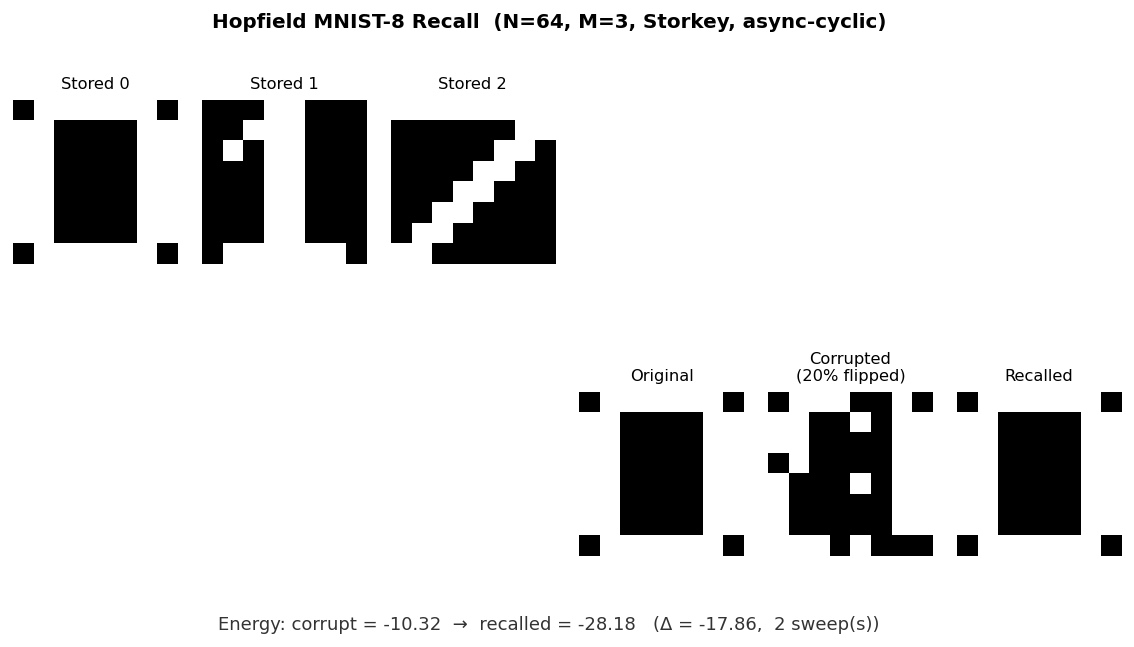
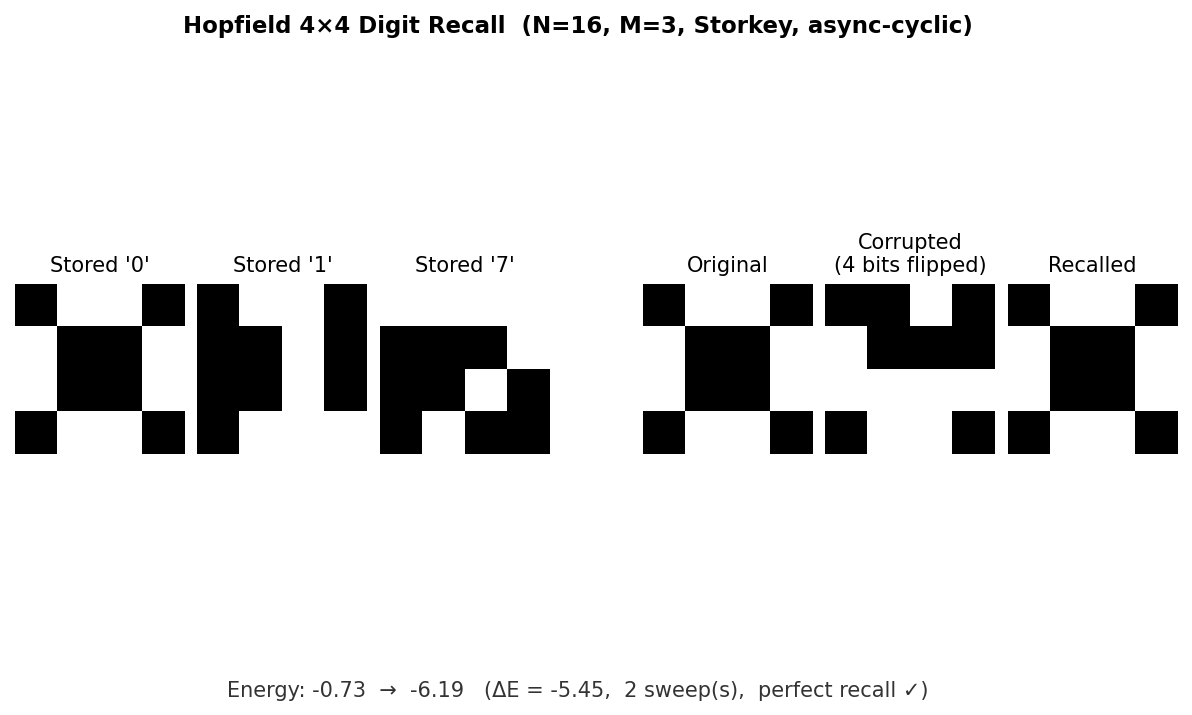
Switch demo to 4×4 digits (N=16, hardware-realistic)
demo_mnist.py: replaced 8×8 patterns with 4×4 hand-crafted digits (0, 1, 7),
  N=16 — matches the borderline feasible truth table size (2^16 rows).
  Updated plot layout, titles, and energy annotation accordingly.

https://claude.ai/code/session_01QZFvVfVcLBRkZ4WmhL34SA

diff --git a/meetings/2026-05-11/demo/demo_mnist.py b/meetings/2026-05-11/demo/demo_mnist.py
@@ -1,12 +1,14 @@
 """
-Demo: MNIST-8 Hopfield recall (N=64, 8×8 binarized digits).
+Demo: 4×4 digit Hopfield recall (N=16, hardware-realistic size).
 
 Shows:
-  - Store 3 digit images in a N=64 Hopfield network (Storkey)
-  - Corrupt one digit with 20% pixel flips
-  - Recall and display: original | corrupted | recalled
+  - Store 3 hand-crafted 4×4 digit patterns in a N=16 Hopfield network (Storkey)
+  - Corrupt one digit with ~25% pixel flips (4 bits)
+  - Recall and display: stored patterns | original | corrupted | recalled
 
-Requires: scikit-learn (pip install scikit-learn)
+N=16 is the largest size at which truth table enumeration (2^16 rows) is
+borderline feasible — this demo reflects the actual hardware target.
+
 Run from this directory:
     python demo_mnist.py
 """
@@ -28,36 +30,27 @@ except ImportError:
     sys.exit(1)
 
 # ── config ────────────────────────────────────────────────────────────────────
-NOISE = 0.20   # fraction of pixels to flip
-SEED  = 42
+N_FLIPS = 4     # bits to corrupt out of 16  (25%)
+SEED    = 42
+SIZE    = 4     # grid size (4×4 = N=16)
 # ─────────────────────────────────────────────────────────────────────────────
 
-# Hand-crafted 8×8 binary digit patterns (no download needed)
+# Hand-crafted 4×4 digit patterns
 _DIGITS = {
-    '0': [0,1,1,1,1,1,1,0,
-          1,1,0,0,0,0,1,1,
-          1,1,0,0,0,0,1,1,
-          1,1,0,0,0,0,1,1,
-          1,1,0,0,0,0,1,1,
-          1,1,0,0,0,0,1,1,
-          1,1,0,0,0,0,1,1,
-          0,1,1,1,1,1,1,0],
-    '1': [0,0,0,1,1,0,0,0,
-          0,0,1,1,1,0,0,0,
-          0,1,0,1,1,0,0,0,
-          0,0,0,1,1,0,0,0,
-          0,0,0,1,1,0,0,0,
-          0,0,0,1,1,0,0,0,
-          0,0,0,1,1,0,0,0,
-          0,1,1,1,1,1,1,0],
-    '7': [1,1,1,1,1,1,1,1,
-          0,0,0,0,0,0,1,1,
-          0,0,0,0,0,1,1,0,
-          0,0,0,0,1,1,0,0,
-          0,0,0,1,1,0,0,0,
-          0,0,1,1,0,0,0,0,
-          0,1,1,0,0,0,0,0,
-          1,1,0,0,0,0,0,0],
+    '0': [0,1,1,0,
+          1,0,0,1,
+          1,0,0,1,
+          0,1,1,0],
+
+    '1': [0,1,1,0,
+          0,0,1,0,
+          0,0,1,0,
+          0,1,1,1],
+
+    '7': [1,1,1,1,
+          0,0,0,1,
+          0,0,1,0,
+          0,1,0,0],
 }
 
 def _to_bipolar(bits):
@@ -65,65 +58,65 @@ def _to_bipolar(bits):
 
 patterns = np.array([_to_bipolar(_DIGITS[d]) for d in ['0', '1', '7']])
 N_PATTERNS = len(patterns)
-print(f"Using hand-crafted 8×8 digit patterns (digits: 0, 1, 7)  N=64  M={N_PATTERNS}")
+N = SIZE * SIZE   # 16
 
-net = HopfieldNetwork(N=64, rule=STORKEY, update_mode=ASYNC_CYCLIC)
+print(f"4×4 digit patterns (0, 1, 7)  N={N}  M={N_PATTERNS}")
+
+net = HopfieldNetwork(N=N, rule=STORKEY, update_mode=ASYNC_CYCLIC)
 net.train(patterns)
-print(f"Trained Storkey network  N=64  M={N_PATTERNS}")
+print(f"Trained Storkey network  N={N}  M={N_PATTERNS}")
 
 rng     = np.random.default_rng(SEED)
-target  = patterns[0]
-n_flips = int(NOISE * 64)
-corrupt = add_noise(target, n_flips=n_flips, rng=rng)
+target  = patterns[0]   # corrupt the '0'
+corrupt = add_noise(target, n_flips=N_FLIPS, rng=rng)
 recalled, n_sweeps, converged = net.run(corrupt)
 
 hamming_in  = int((corrupt  != target).sum())
 hamming_out = int((recalled != target).sum())
 
-print(f"\nCorrupted {n_flips}/64 pixels (Hamming = {hamming_in})")
-print(f"Converged in {n_sweeps} sweep(s): Hamming after recall = {hamming_out}")
-if hamming_out == 0:
-    print("✓ Perfect recall")
-else:
-    print(f"Partial recall — {hamming_out} pixels differ from original")
+print(f"\nCorrupted {N_FLIPS}/{N} bits (Hamming = {hamming_in})")
+print(f"Converged in {n_sweeps} sweep(s)  |  Hamming after recall = {hamming_out}")
+print("✓ Perfect recall" if hamming_out == 0
+      else f"Partial recall — {hamming_out} bits differ from original")
 
 # ── plot ──────────────────────────────────────────────────────────────────────
 def to_img(s):
-    """Bipolar {-1,+1} → grayscale [0,1] 8×8."""
-    return ((s + 1) / 2).reshape(8, 8)
+    return ((s + 1) / 2).reshape(SIZE, SIZE)
 
-fig = plt.figure(figsize=(11, 5))
-gs  = gridspec.GridSpec(2, N_PATTERNS + 3, figure=fig, wspace=0.15, hspace=0.4)
+fig = plt.figure(figsize=(10, 4.5))
+# cols: 3 stored patterns | gap | original | corrupted | recalled
+gs = gridspec.GridSpec(1, N_PATTERNS + 1 + 3, figure=fig,
+                       wspace=0.08, width_ratios=[1,1,1, 0.4, 1,1,1])
 
-# top row: stored patterns
-for i, p in enumerate(patterns):
+# stored patterns
+for i, (d, p) in enumerate(zip(['0','1','7'], patterns)):
     ax = fig.add_subplot(gs[0, i])
-    ax.imshow(to_img(p), cmap='gray', vmin=0, vmax=1)
-    ax.set_title(f'Stored {i}', fontsize=9)
+    ax.imshow(to_img(p), cmap='gray', vmin=0, vmax=1, interpolation='nearest')
+    ax.set_title(f"Stored '{d}'", fontsize=10)
     ax.axis('off')
 
-# bottom row: corrupted → recalled (with arrow)
-titles  = ['Original', 'Corrupted\n(20% flipped)', 'Recalled']
-images  = [target, corrupt, recalled]
-offsets = [N_PATTERNS, N_PATTERNS + 1, N_PATTERNS + 2]
+# divider (blank axis)
+fig.add_subplot(gs[0, 3]).axis('off')
 
-for ax_col, img, title in zip(offsets, images, titles):
-    ax = fig.add_subplot(gs[1, ax_col])
-    ax.imshow(to_img(img), cmap='gray', vmin=0, vmax=1)
-    ax.set_title(title, fontsize=9)
+# recall triplet
+titles = ['Original', f'Corrupted\n({N_FLIPS} bits flipped)', 'Recalled']
+images = [target, corrupt, recalled]
+for col, (img, title) in enumerate(zip(images, titles), start=4):
+    ax = fig.add_subplot(gs[0, col])
+    ax.imshow(to_img(img), cmap='gray', vmin=0, vmax=1, interpolation='nearest')
+    ax.set_title(title, fontsize=10)
     ax.axis('off')
 
-# energy annotation
-e_corrupt  = net.energy(corrupt)
-e_recalled = net.energy(recalled)
-fig.text(0.5, 0.03,
-         f'Energy: corrupt = {e_corrupt:.2f}  →  recalled = {e_recalled:.2f}   '
-         f'(Δ = {e_recalled - e_corrupt:.2f},  {n_sweeps} sweep(s))',
+e_in  = net.energy(corrupt)
+e_out = net.energy(recalled)
+fig.text(0.5, 0.01,
+         f'Energy: {e_in:.2f}  →  {e_out:.2f}   (ΔE = {e_out-e_in:.2f},  {n_sweeps} sweep(s),  '
+         f'{"perfect recall ✓" if hamming_out == 0 else f"Hamming={hamming_out}"})',
          ha='center', fontsize=10, color='#333333')
 
-fig.suptitle(f'Hopfield MNIST-8 Recall  (N=64, M={N_PATTERNS}, Storkey, async-cyclic)',
-             fontweight='bold', fontsize=11)
+fig.suptitle(f'Hopfield 4×4 Digit Recall  (N={N}, M={N_PATTERNS}, Storkey, async-cyclic)',
+             fontweight='bold', fontsize=11, y=1.02)
 
-plt.savefig('demo_mnist_result.png', bbox_inches='tight', dpi=130)
+plt.savefig('demo_mnist_result.png', bbox_inches='tight', dpi=150)
 print("\nSaved → demo_mnist_result.png")
 plt.show()
